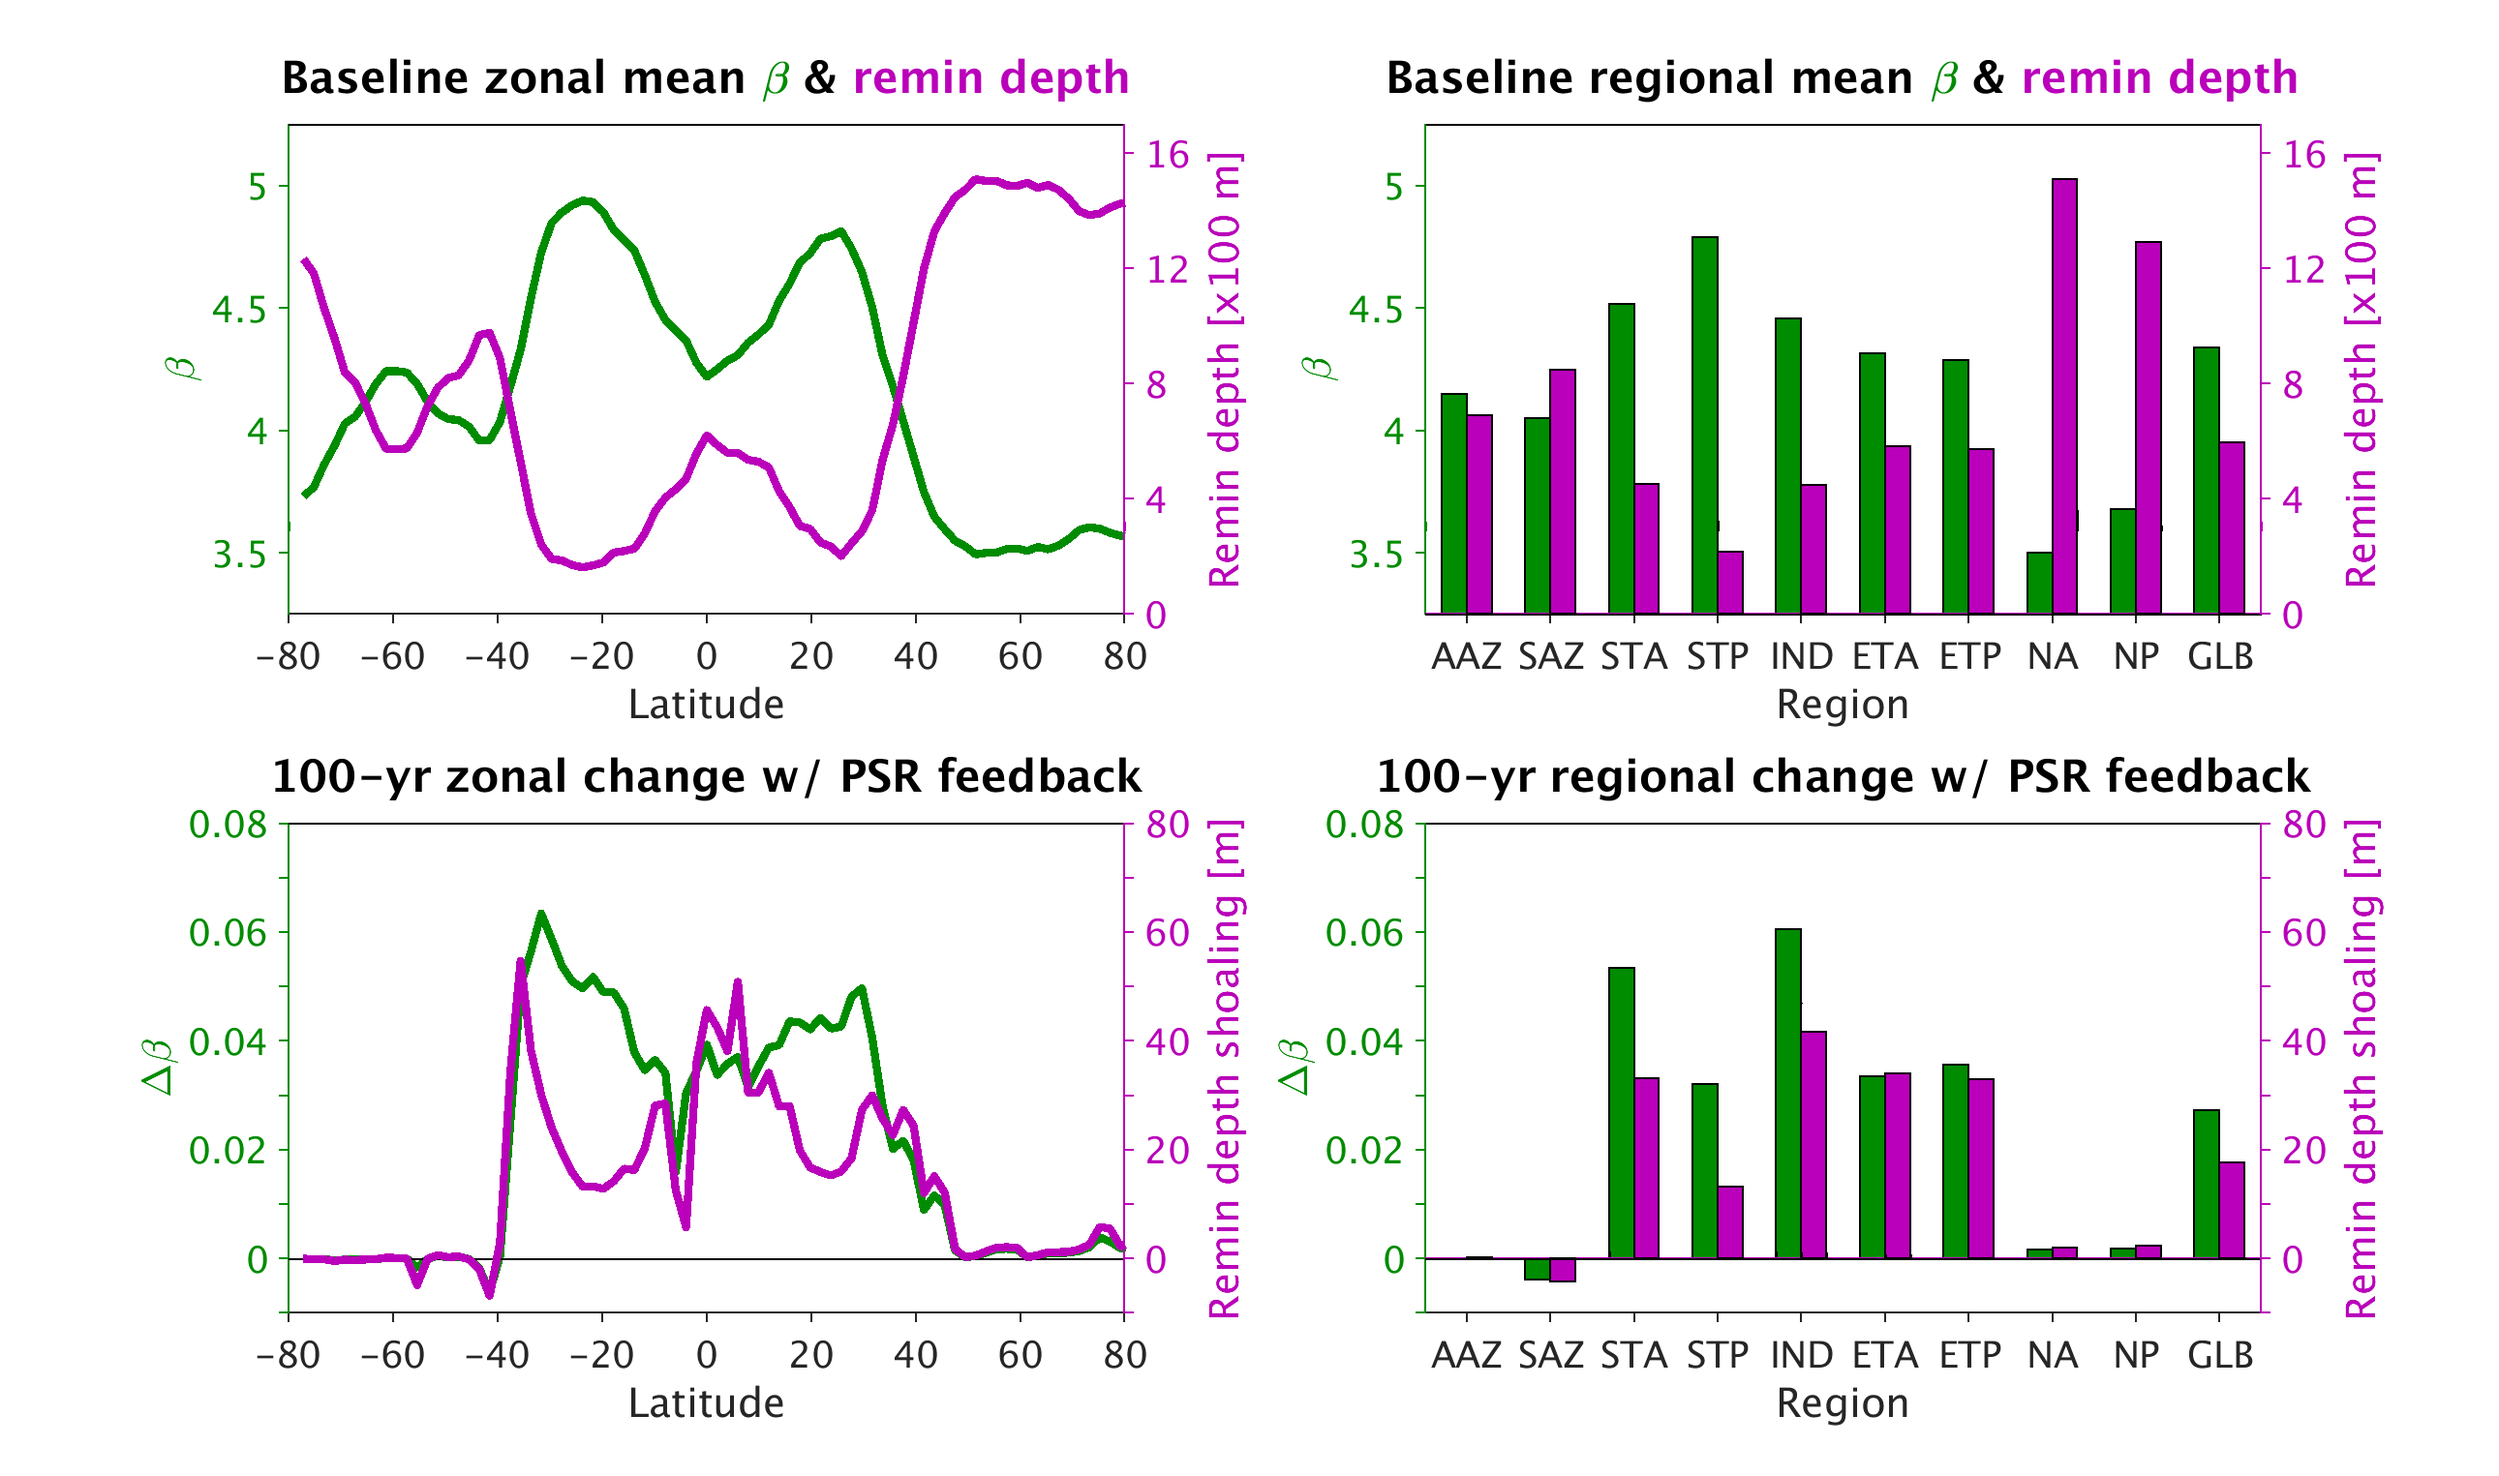
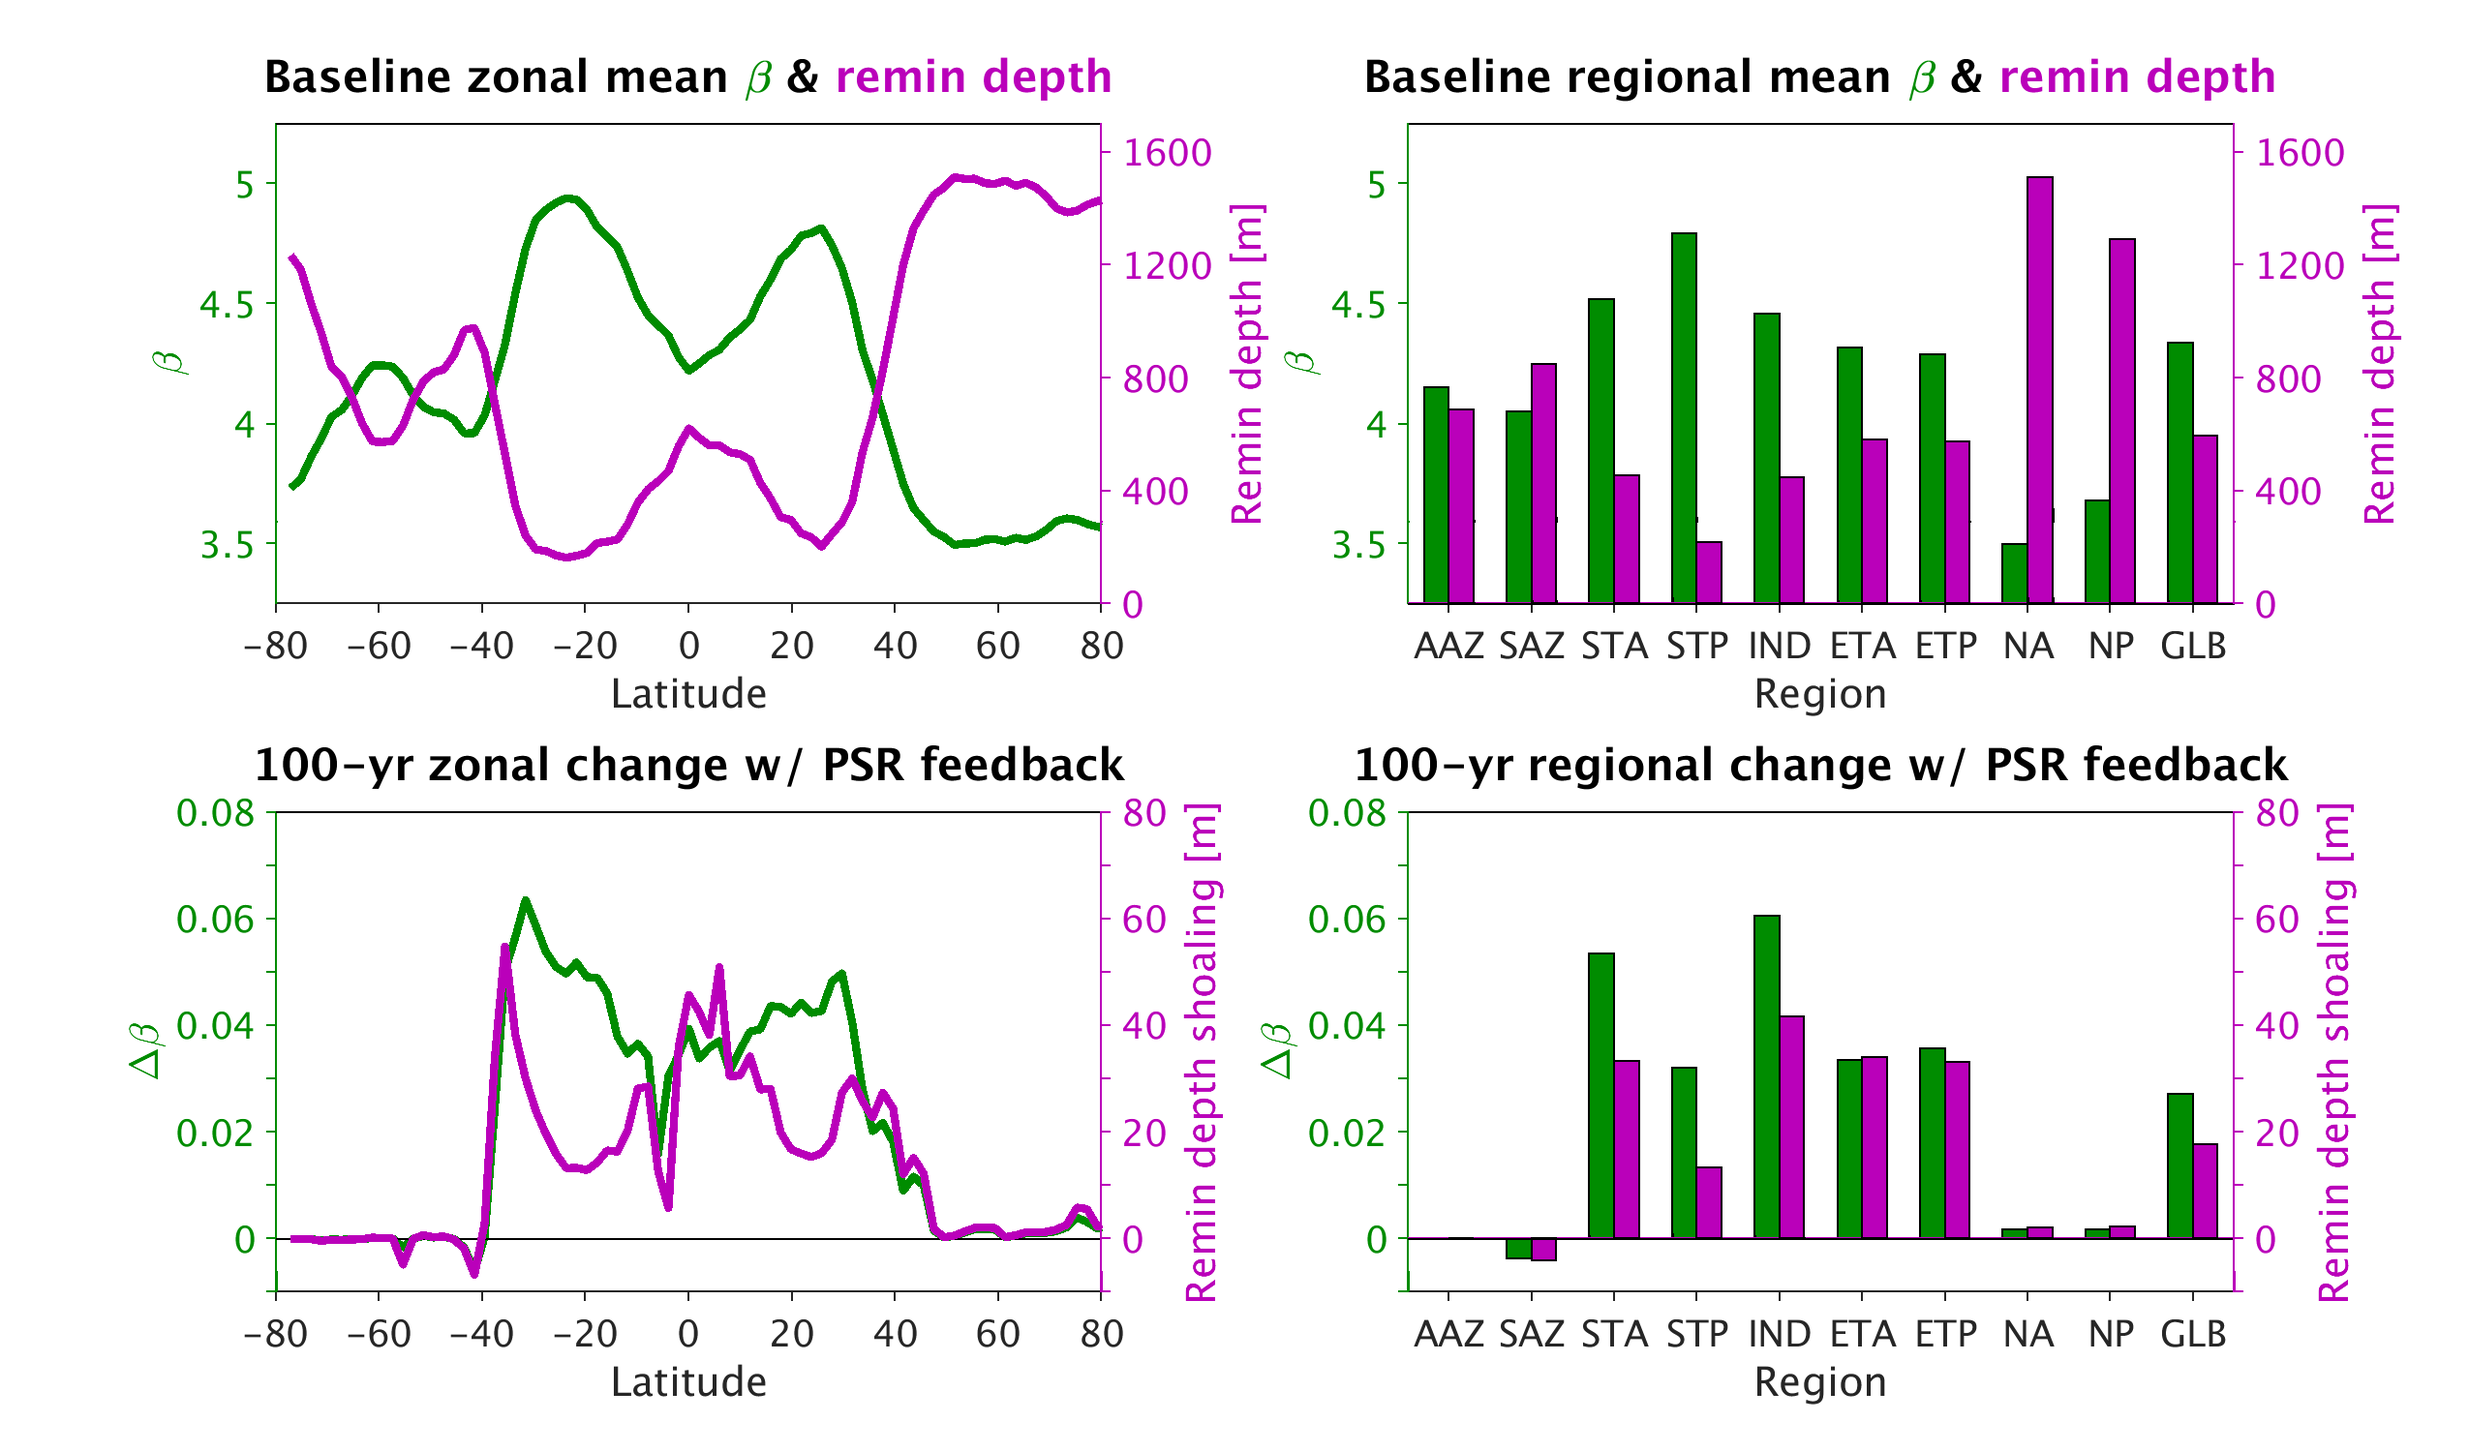
changed remin depth labels

diff --git a/figure_code/fig6_deltabetard.m b/figure_code/fig6_deltabetard.m
@@ -281,7 +281,8 @@ betamin = 3.25; betamax = 5.25;
 betaticks = linspace(3,5,5);
 rdmin = 0; rdmax = 1700;
 rdticks = linspace(0,1600,5);
-rdticklabs = compose('%g',rdticks/100);
+%rdticklabs = compose('%g',rdticks/100);
+rdticklabs = compose('%g',rdticks);
 
 subplot(221);
 [ax,hbeta,hrd]=plotyy(...
@@ -300,7 +301,7 @@ set(ax(2),'YColor',rdcol,'XLim',[-80 80],...
 rl=refline(ax(1),0,ax(1).YLim(2)); rl.Color='k';
 ylabel(ax(1),'\beta',...
     'FontSize',labelfontsize,'FontWeight',labelfontwt);
-ylabel(ax(2),'Remin depth [x100 m]',...
+ylabel(ax(2),'Remin depth [m]',...
     'FontSize',labelfontsize,'FontWeight',labelfontwt);
 set(ax,'TickDir','out');
 xlabel('Latitude','fontsize',labelfontsize);
@@ -329,7 +330,7 @@ rl1=refline(ax(1),0,ax(1).YLim(2)); rl1.Color='k'; % adds box top edge
 rl2=refline(ax(2),0,ax(2).YLim(1)); rl2.Color='k'; % make x-axis black
 ylabel(ax(1),'\beta','FontSize',labelfontsize,...
     'FontWeight',labelfontwt);
-ylabel(ax(2),'Remin depth [x100 m]',...
+ylabel(ax(2),'Remin depth [m]',...
     'FontSize',labelfontsize,'FontWeight',labelfontwt);
 set(ax,'TickDir','out');
 xlabel('Region','fontsize',labelfontsize);
@@ -421,7 +422,7 @@ xlabel('Region','fontsize',labelfontsize);
 title('100-yr_ regional change w/ PSR feedback',...
     'fontsize',titlefontsize,'fontweight',titlefontwt);
 
-disp('pause - manually move lhs subplots over to the left moreby 12 or 20 left arrow clicks')
+disp('pause - manually move lhs subplots over to the left more by 12 or 20 left arrow clicks')
 pause
 
 print(f, [fig_save_path figname '_PSRfbpaper_final.pdf'], '-dpdf', '-r300');
